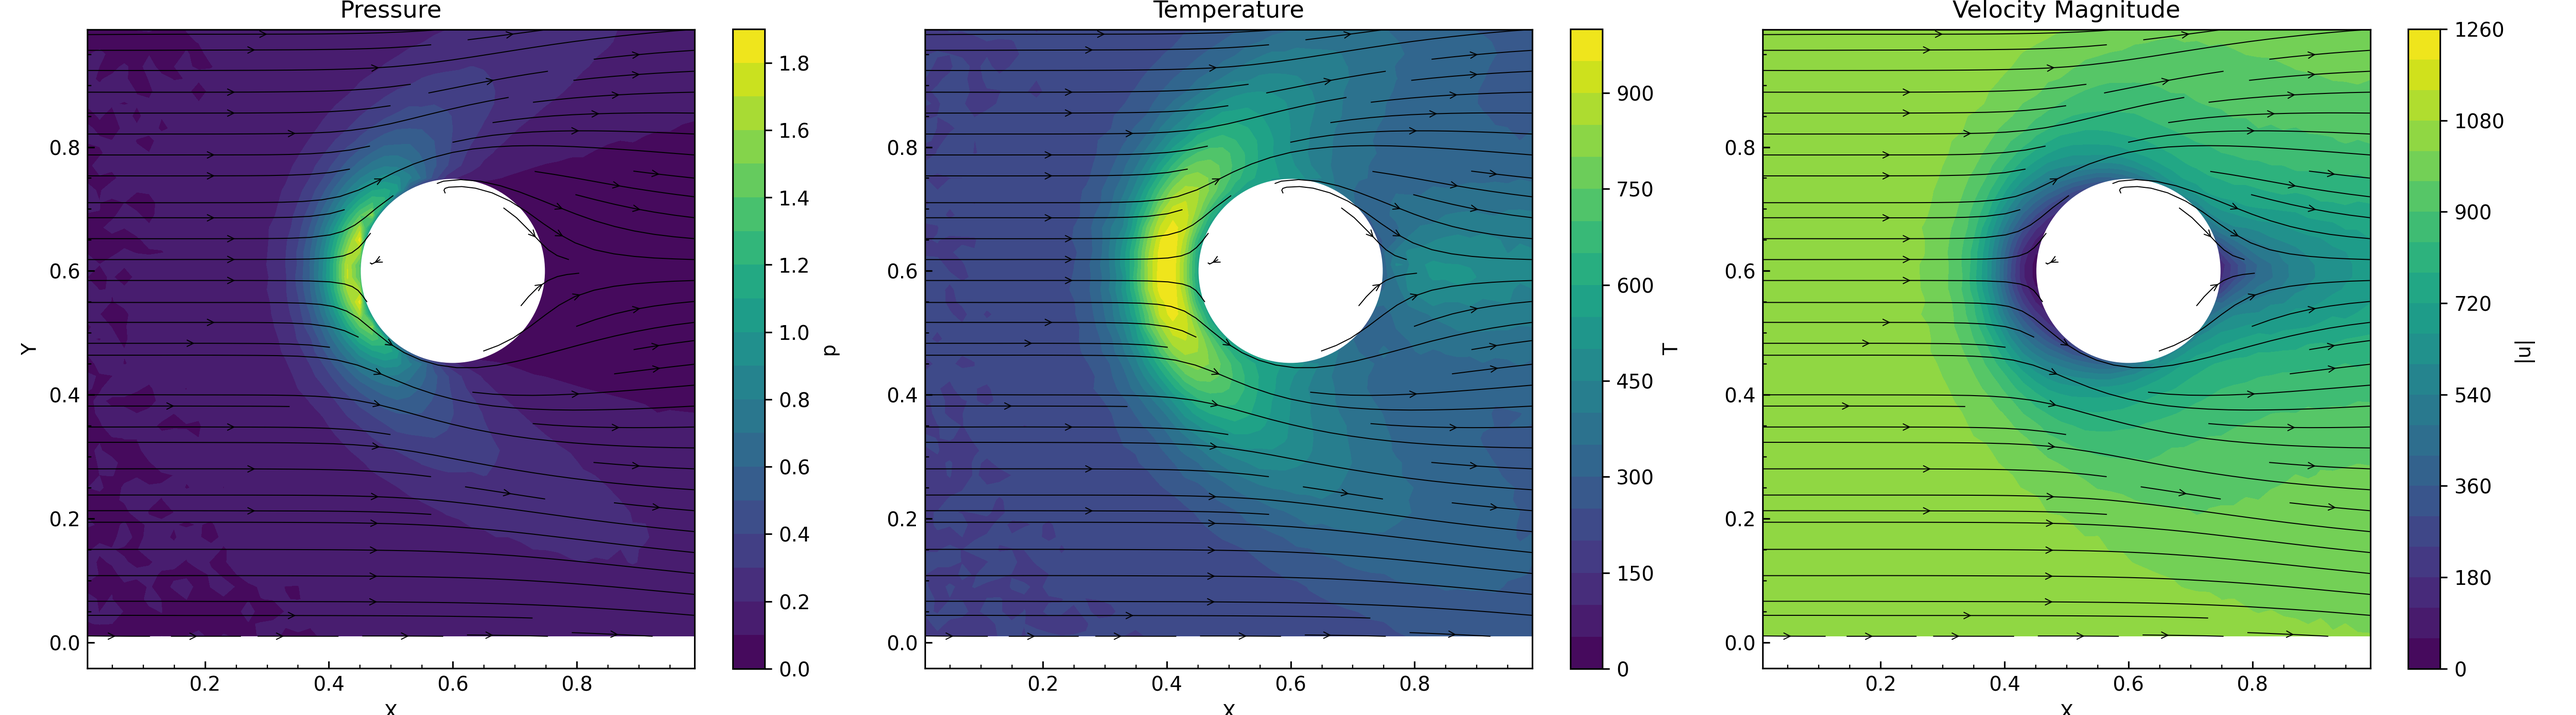
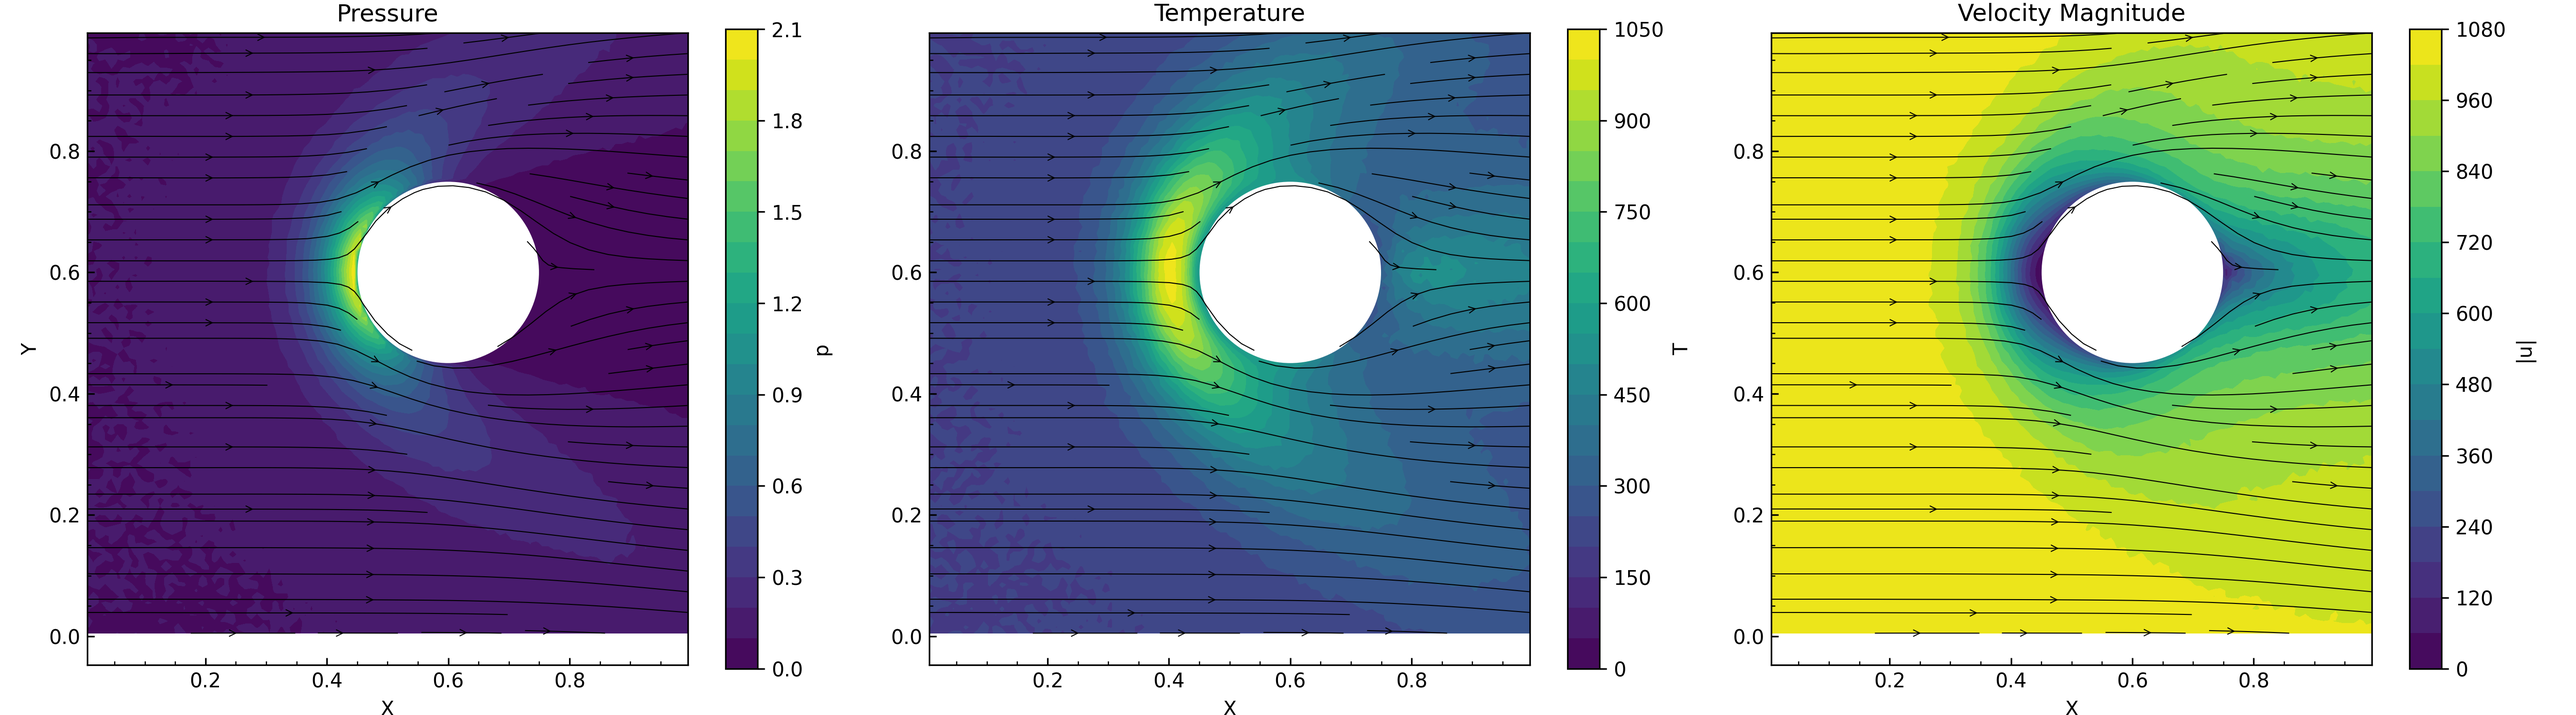
larger grid

diff --git a/plot.py b/plot.py
@@ -37,6 +37,11 @@ def load_structured_field(filename, density_col, temp_col, ux_col, uy_col, z_val
     # extract only a single z-slice
     if (z_present):
         # z_val = 0.55;
+        unique_z_vals = np.unique(data[:, 2])
+        if z_val not in unique_z_vals:
+            print(f'wrong z_val={z_val}, not in {unique_z_vals}')
+            exit(0)
+
         data = data[data[:, 2] == z_val]
         # remove z column
         data = np.delete(data, 2, axis=1)

diff --git a/cuda/include/config.h b/cuda/include/config.h
@@ -4,11 +4,11 @@
 #include "object.h"
 #include <cuda_runtime.h>
 
-#define MAX_PARTICLES 120000000
+#define MAX_PARTICLES 250000000
 #define MAX_PARTICLES_PER_CELL 750
-#define NX 100
-#define NY 100
-#define NZ 100
+#define NX 124
+#define NY 124
+#define NZ 124
 
 #define PARTICLES_FIELD_SZ (MAX_PARTICLES * sizeof(float))
 #define SAMPLES_SZ (NX * NY * NZ * sizeof(Cell))
